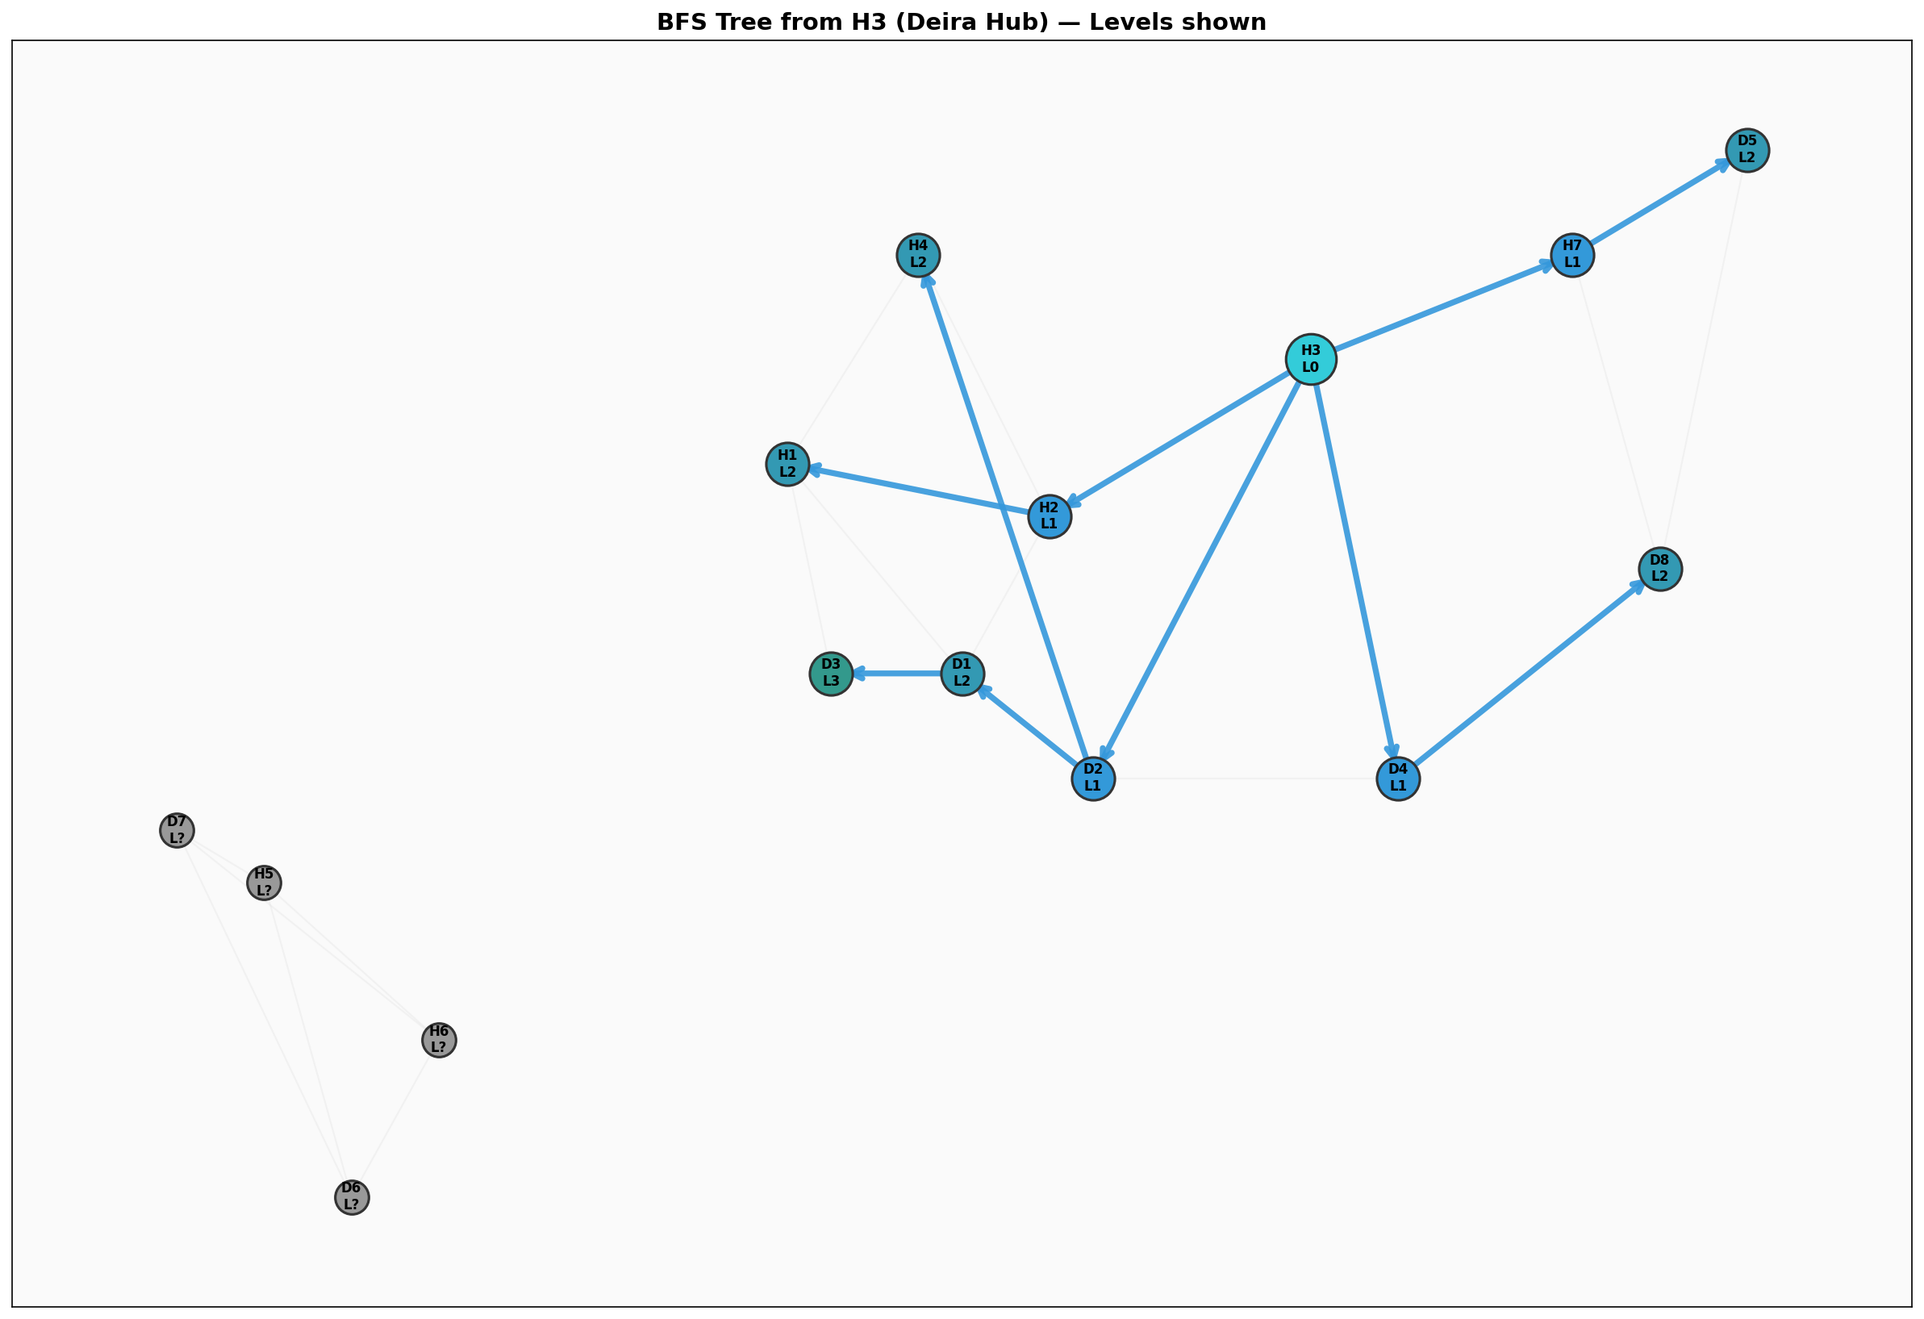
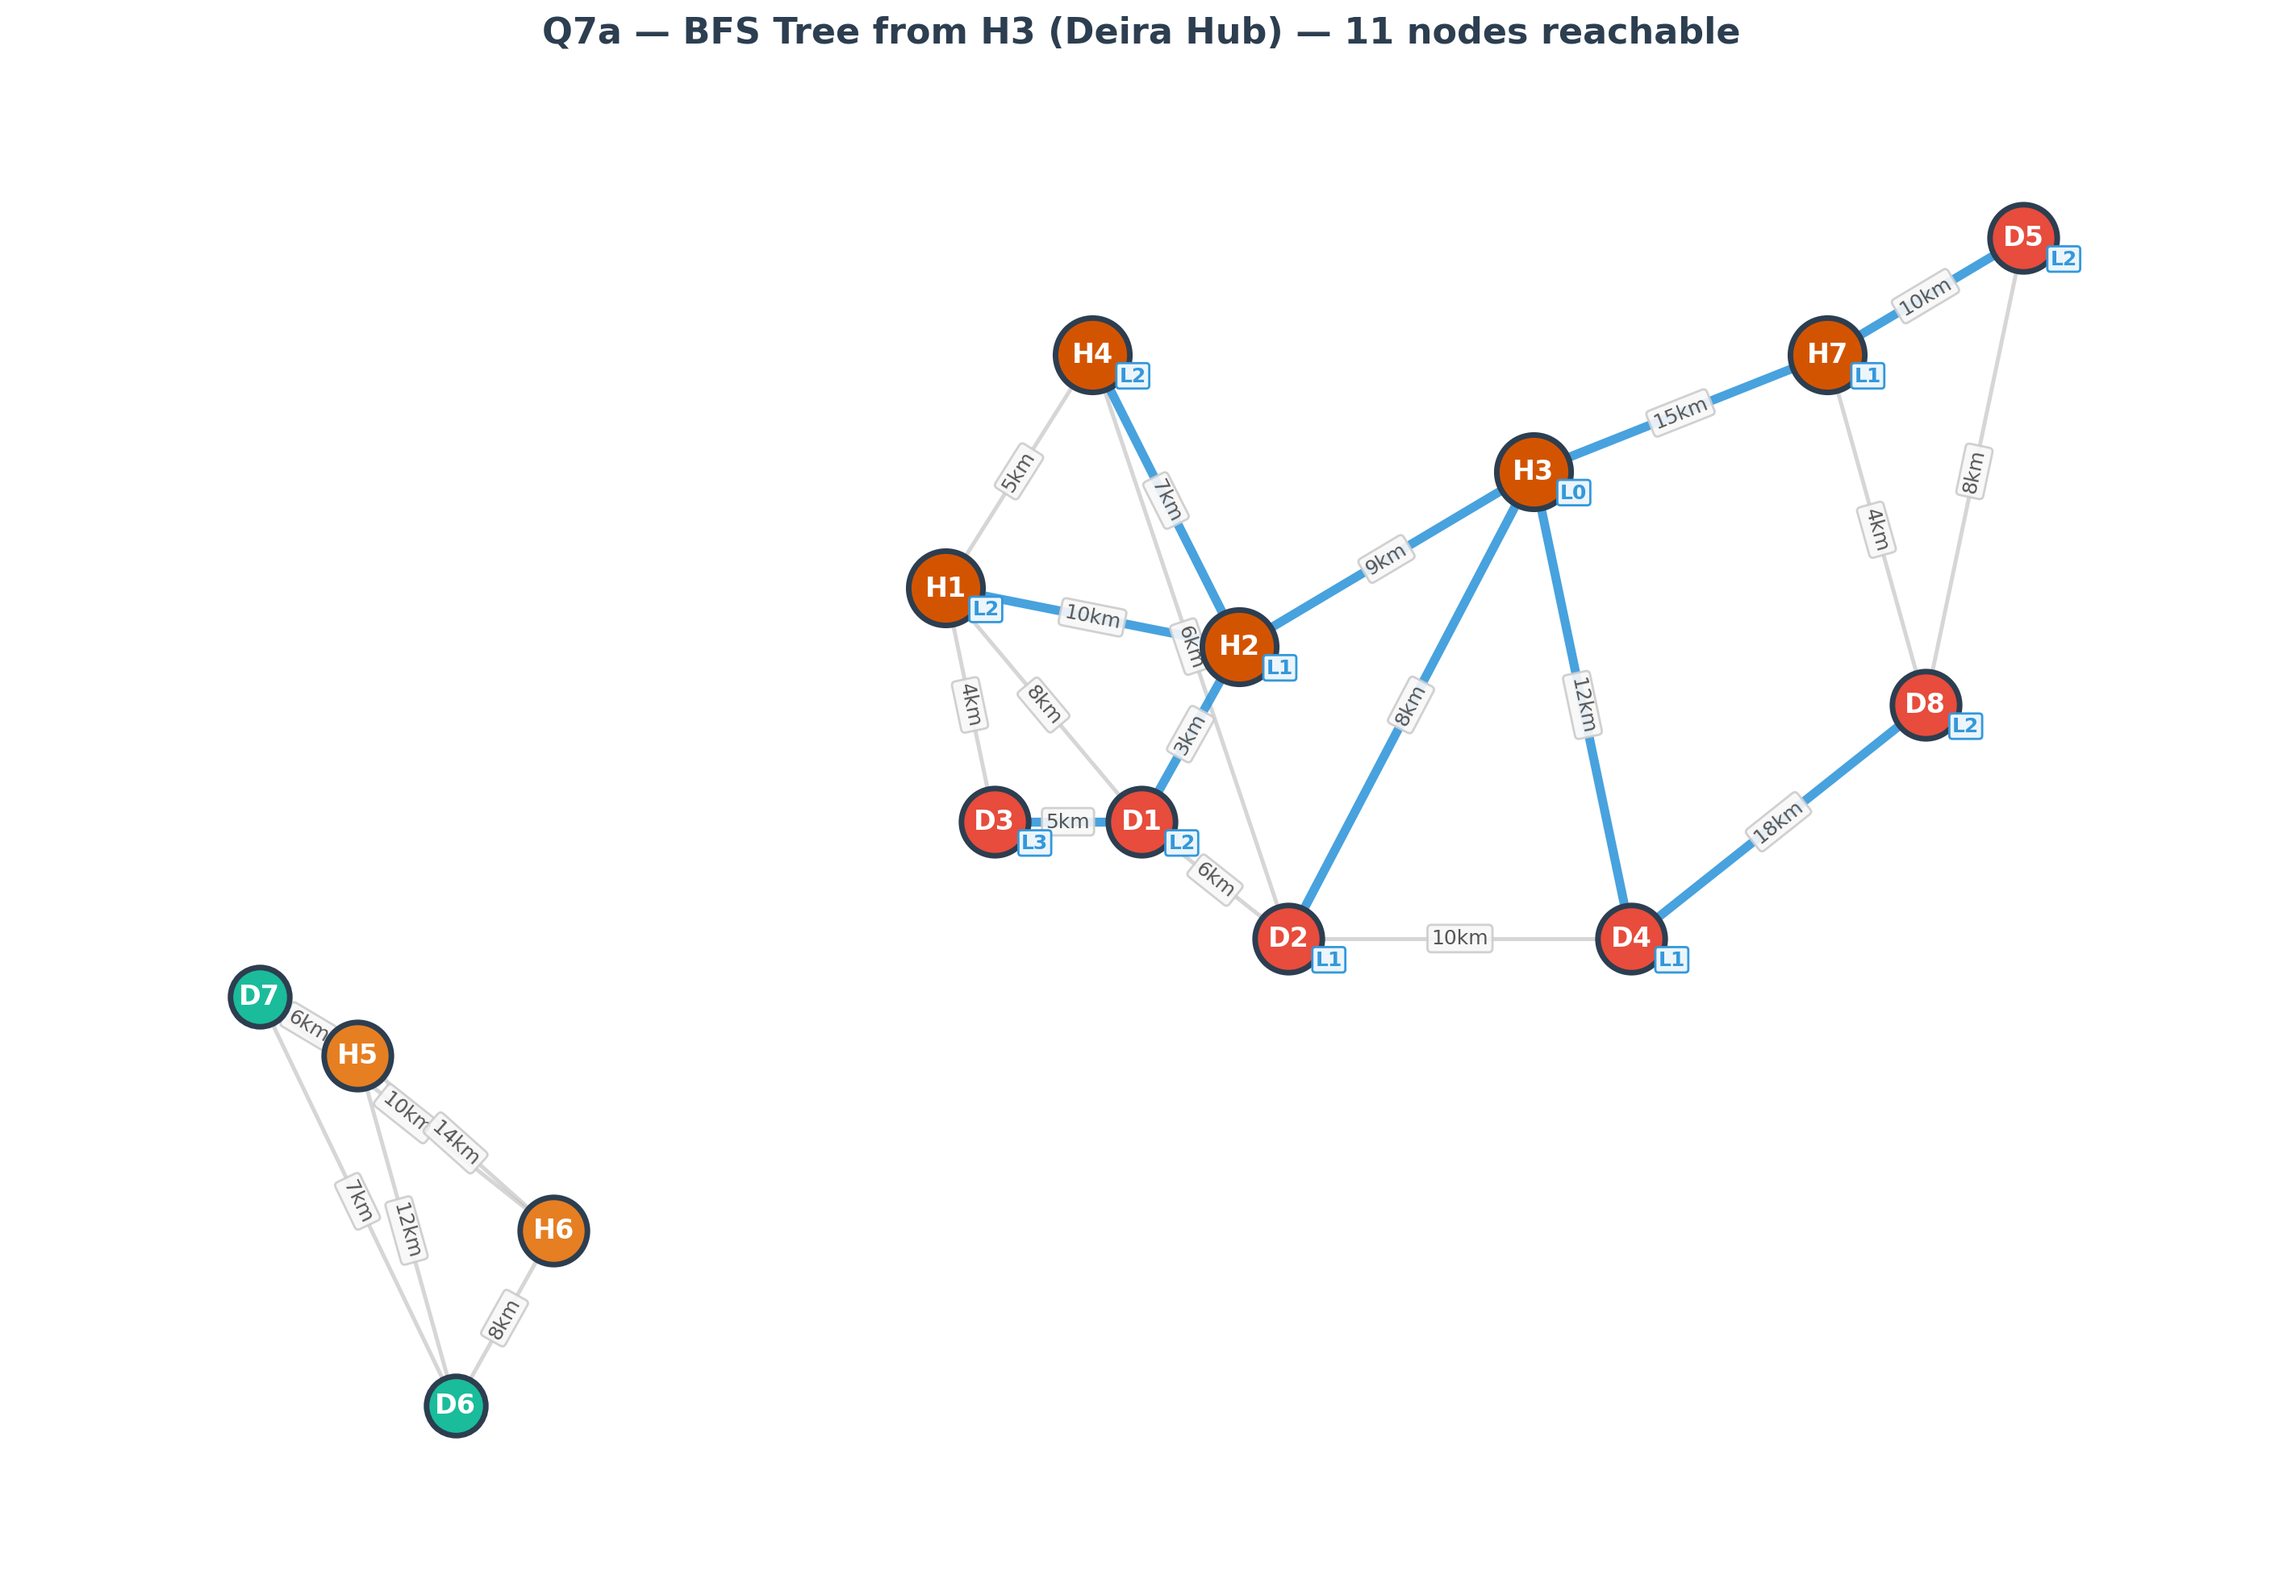
fix: production-quality figures (200dpi, white bg, large nodes) and matching app.py

diff --git a/app.py b/app.py
@@ -119,92 +119,77 @@ def path_costs(path,adj):
 # PREMIUM GRAPH DRAWING
 # ═══════════════════════════════════════════════════════════
 def draw_network(adj, paths_data, blocked=None, title="WaselX Network", figsize=(18,12)):
-    fig, ax = plt.subplots(1,1, figsize=figsize, facecolor='#0E1117')
-    ax.set_facecolor('#0E1117')
+    fig, ax = plt.subplots(1,1, figsize=figsize, facecolor='white')
+    ax.set_facecolor('white')
 
     G = nx.Graph()
     for n in NODES: G.add_node(n)
     for u,v,road,d,t,c in EDGES:
         if blocked and ((u,v)==blocked or (v,u)==blocked): continue
-        G.add_edge(u,v)
+        G.add_edge(u,v,dist=d)
 
-    # Base edges - thicker, more visible
-    nx.draw_networkx_edges(G, NODE_POS, ax=ax, edge_color='#3a3a5c', width=2.0, alpha=0.6, style='solid')
-
-    # Highlighted paths
-    colors = ['#FF4757','#1E90FF','#2ED573']
+    # Base edges
+    all_edges = list(G.edges())
+    path_edges_set = set()
+    colors = ['#E74C3C','#2980B9','#27AE60']
     handles = []
     path_nodes = set()
+    for idx, pd_item in enumerate(paths_data):
+        path = pd_item['path']
+        if len(path) < 2: continue
+        pe = [(path[i],path[i+1]) for i in range(len(path)-1)]
+        for e in pe: path_edges_set.add(e); path_edges_set.add((e[1],e[0]))
+        path_nodes.update(path)
+
+    other_edges = [(u,v) for u,v in all_edges if (u,v) not in path_edges_set and (v,u) not in path_edges_set]
+    nx.draw_networkx_edges(G, NODE_POS, edgelist=other_edges, ax=ax, edge_color='#BBBBBB', width=1.8, alpha=0.6)
+
     for idx, pd_item in enumerate(paths_data):
         col = colors[idx % len(colors)]
         path = pd_item['path']
         if len(path) < 2: continue
         pe = [(path[i],path[i+1]) for i in range(len(path)-1)]
-        nx.draw_networkx_edges(G, NODE_POS, edgelist=pe, ax=ax, edge_color=col,
-                               width=5.0, alpha=0.95, style='solid')
-        path_nodes.update(path)
+        nx.draw_networkx_edges(G, NODE_POS, edgelist=pe, ax=ax, edge_color=col, width=5.0, alpha=0.9)
         handles.append(mpatches.Patch(color=col, label=pd_item['label']))
 
-    # Blocked edge
     if blocked and blocked[0] in NODE_POS and blocked[1] in NODE_POS:
         bx = [NODE_POS[blocked[0]][0], NODE_POS[blocked[1]][0]]
         by = [NODE_POS[blocked[0]][1], NODE_POS[blocked[1]][1]]
-        ax.plot(bx, by, '--', color='#FF6348', linewidth=3, alpha=0.8)
-        ax.plot(bx, by, 'X', color='#FF6348', markersize=20, alpha=0.9)
-        handles.append(mpatches.Patch(color='#FF6348', label=f'Blocked: {blocked[0]}↔{blocked[1]}'))
+        ax.plot(bx, by, 'X--', color='red', linewidth=3, markersize=18)
+        handles.append(mpatches.Patch(color='red', label=f'Blocked: {blocked[0]}<->{blocked[1]}'))
 
-    # Draw nodes - LARGE and readable
     for n in ALL_NODES:
         is_hub = n.startswith('H')
         in_path = n in path_nodes
         if in_path:
-            color = '#FF4757' if not is_hub else '#FF6348'
-            size = 1200
-            ec = '#FFFFFF'
-            ew = 3
+            color = '#D35400' if is_hub else '#E74C3C'
+            size = 1100
         elif is_hub:
-            color = '#FF6B35'
+            color = '#E67E22'
             size = 900
-            ec = '#FFFFFF'
-            ew = 2
         else:
-            color = '#4ECDC4'
+            color = '#1ABC9C'
             size = 700
-            ec = '#FFFFFF'
-            ew = 1.5
         nx.draw_networkx_nodes(G, NODE_POS, nodelist=[n], ax=ax,
                                node_color=color, node_size=size,
-                               edgecolors=ec, linewidths=ew, alpha=0.95)
+                               edgecolors='#2C3E50', linewidths=2.5, alpha=0.95)
 
-    # Node labels - LARGE white text
-    nx.draw_networkx_labels(G, NODE_POS, ax=ax, font_size=11, font_weight='bold',
+    nx.draw_networkx_labels(G, NODE_POS, ax=ax, font_size=12, font_weight='bold',
                             font_color='white', font_family='sans-serif')
 
-    # Edge weight labels - visible
     edge_labels = {}
     for u,v,road,d,t,c in EDGES:
         if blocked and ((u,v)==blocked or (v,u)==blocked): continue
         edge_labels[(u,v)] = f"{d}km"
     nx.draw_networkx_edge_labels(G, NODE_POS, edge_labels=edge_labels, ax=ax,
-                                  font_size=9, font_color='#B0B0B0', font_weight='bold',
-                                  bbox=dict(boxstyle='round,pad=0.15', facecolor='#1a1a2e',
-                                           edgecolor='none', alpha=0.8))
+                                  font_size=9, font_color='#555555', font_weight='bold',
+                                  bbox=dict(boxstyle='round,pad=0.2', fc='#F8F8F8', ec='#CCCCCC', alpha=0.9))
 
     if handles:
-        legend = ax.legend(handles=handles, loc='lower left', fontsize=12,
-                          framealpha=0.9, edgecolor='#555', facecolor='#1a1a2e',
-                          labelcolor='white', handlelength=2)
+        ax.legend(handles=handles, loc='lower left', fontsize=12,
+                  framealpha=0.95, edgecolor='#333', facecolor='white', handlelength=2)
 
-    # Add node name annotations below nodes
-    offset_y = -0.55
-    for n in ALL_NODES:
-        short = NODES[n].split('(')[0].split('Hub')[0].strip()
-        if len(short) > 12: short = short[:12]
-        ax.annotate(short, xy=NODE_POS[n], xytext=(0, offset_y),
-                   textcoords='offset fontsize', ha='center', va='top',
-                   fontsize=7.5, color='#999999', fontstyle='italic')
-
-    ax.set_title(title, fontsize=16, fontweight='bold', color='white', pad=20)
+    ax.set_title(title, fontsize=16, fontweight='bold', color='#2C3E50', pad=15)
     ax.axis('off')
     ax.margins(0.08)
     fig.tight_layout(pad=1.5)
